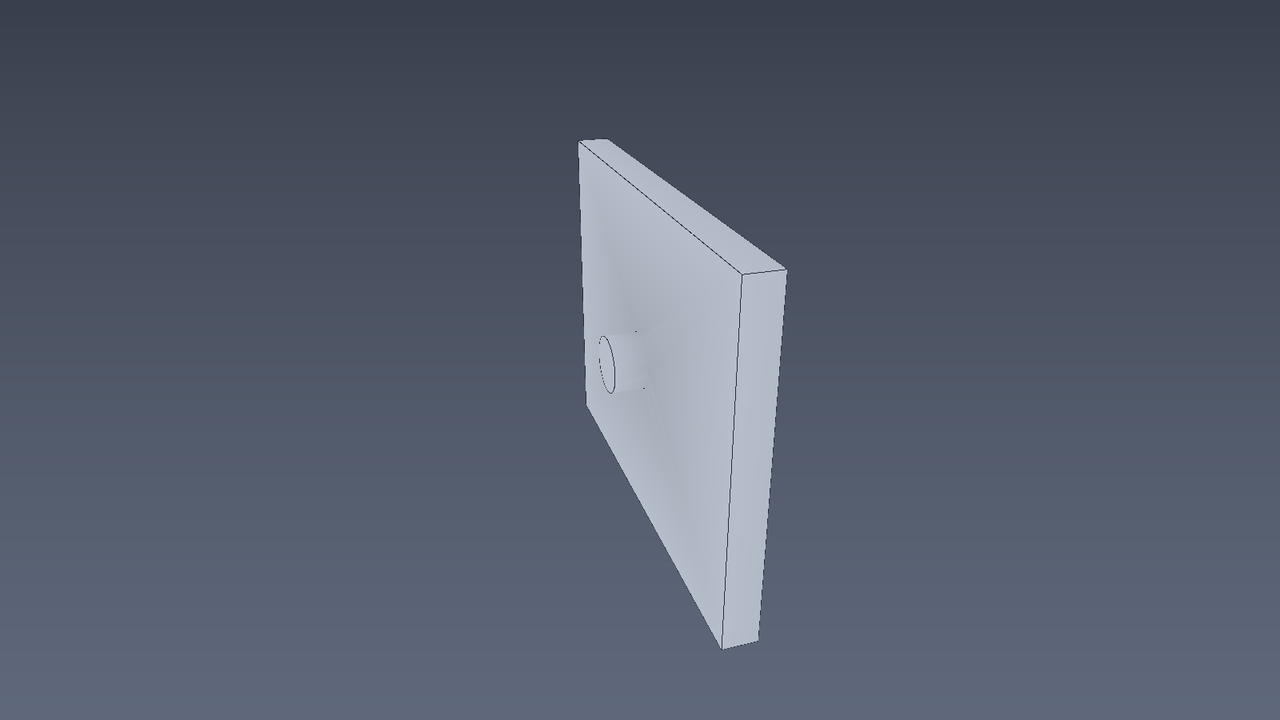
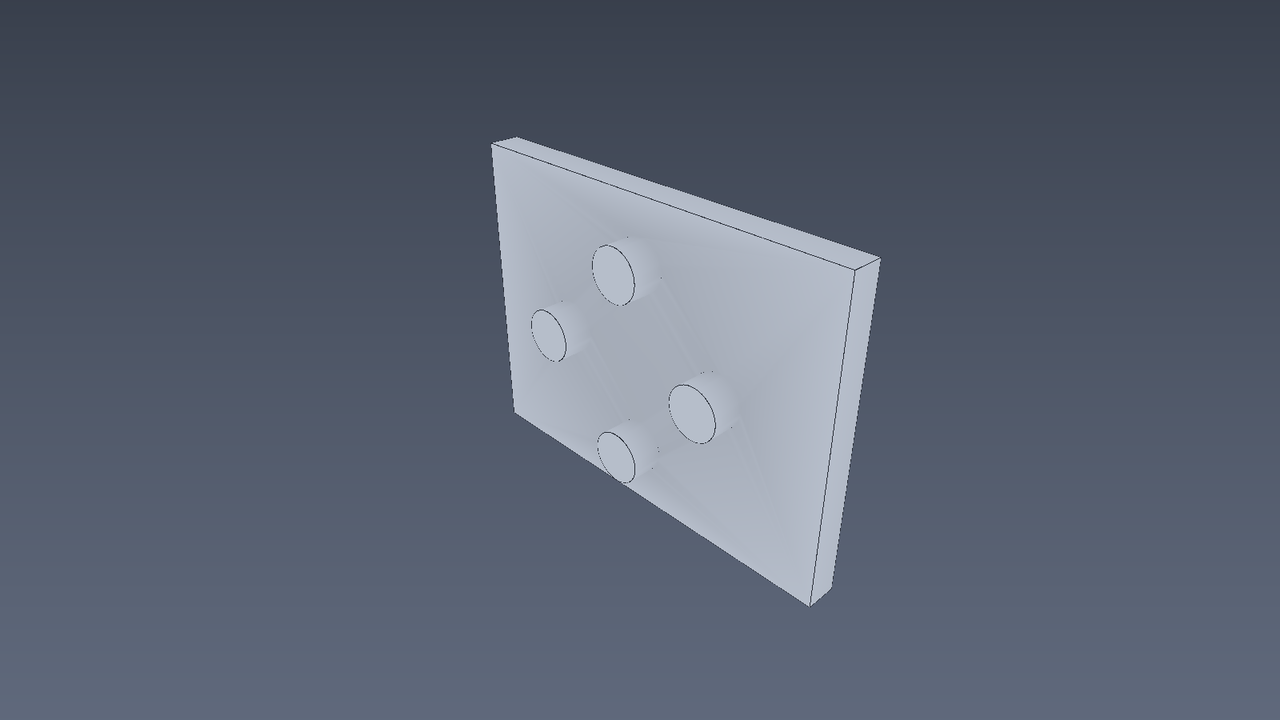
Fix pin-ring example so the circular pattern sweeps a real ring
The pin-ring seed boss sat exactly on the circular-pattern axis (the plate
centre 0.04, 0.03), so all four copies collapsed onto the axis and the example
rendered as a single boss — never a ring.

- Offset the seed boss to (0.058, 0.03) so the 4-up circular pattern revolves a
  proper ring of bosses around the central hole (radius 18 mm, clear of the
  bore and plate edges).
- Regenerate examples/bracket_pin_ring.ocad.d and reframe its preview still to a
  near-frontal angle now that the bosses face the camera; add it to the README.

The example regen test still holds (fused bosses keep volume above the plate).

Changed region(s): [[0.375, 0.1833, 0.6875, 0.9167]]

diff --git a/modules/feature/src/regenerate.rs b/modules/feature/src/regenerate.rs
@@ -1033,13 +1033,16 @@ pub fn bracket_pin_ring() -> Result<PartModel> {
     let mut model = bracket_base_plate()?;
     apply_parameters(&mut model, &bracket_parameters())?;
 
+    // Seed boss is offset from the pattern axis (plate centre 0.04, 0.03) so the
+    // circular pattern sweeps a real ring of bosses around the central hole
+    // instead of collapsing four copies onto the axis.
     let mut pin_sketch = Sketch::new(SketchId::new("sketch:pin")?, "Pin Sketch", Workplane::xy());
     pin_sketch.add_entity(SketchEntity::Point(PointEntity {
         base: EntityBase {
             id: EntityId::new("ent:pin_center")?,
             construction: false,
         },
-        x: Coord::literal(0.04),
+        x: Coord::literal(0.058),
         y: Coord::literal(0.03),
     }))?;
     pin_sketch.add_entity(SketchEntity::Circle(CircleEntity {

diff --git a/README.md b/README.md
@@ -25,6 +25,14 @@
 </p>
 
 <p align="center">
+  <img src="docs/assets/preview_pin_ring.png" alt="ForgeCAD — bracket with a circular ring of pin bosses around the central hole" width="960">
+</p>
+
+<p align="center">
+  <sub><code>examples/bracket_pin_ring.ocad.d</code> — circular union pattern: 4 bosses revolved around the plate centre</sub>
+</p>
+
+<p align="center">
   <img src="docs/assets/preview_pin_mirror.png" alt="ForgeCAD — bracket with mirrored pins fused onto plate via plane_face_ref" width="960">
 </p>
 